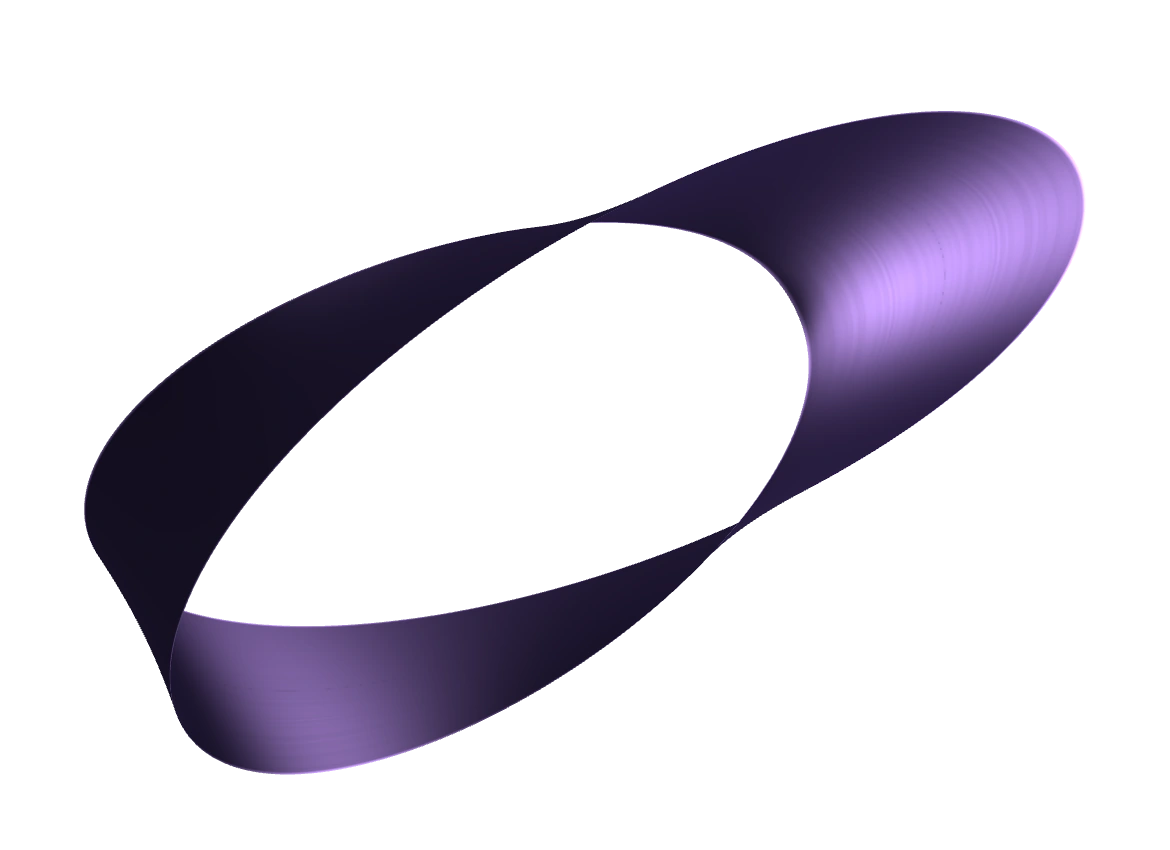
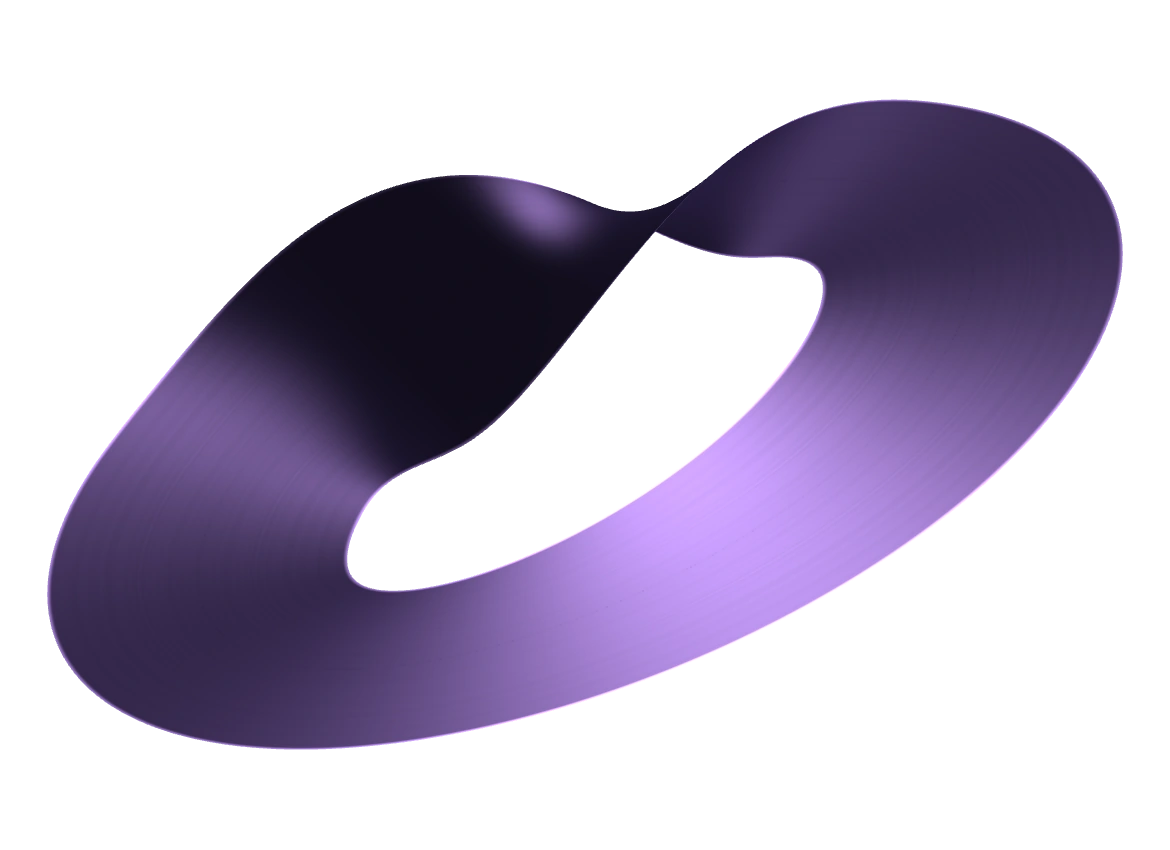
fix: give the Möbius ribbon matching rounded ends

diff --git a/src/mobiusRenderer.ts b/src/mobiusRenderer.ts
@@ -25,8 +25,8 @@ const vertexSource = `
     surfaceNormal = rotate(normal);
     surfaceTangent = rotate(tangent);
     surfaceUv = materialPosition;
-    float scale = 0.92 * clamp(aspect / 1.36, 1.0, 1.15);
-    gl_Position = vec4(p.x * scale / aspect - 0.078, p.y * scale - 0.025, -p.z * 0.5, 1.0);
+    float scale = 0.88 * clamp(aspect / 1.36, 1.0, 1.15);
+    gl_Position = vec4(p.x * scale / aspect, p.y * scale, -p.z * 0.5, 1.0);
   }
 `
 
@@ -113,6 +113,10 @@ function createMesh() {
   const majorRadius = 1.12
   const minorRadius = .82
   const halfWidth = .40
+  const tipLean = .24
+  const twistStart = .094
+  const twistSpan = .312
+  const twistTaper = .18
   const vertices: number[] = []
   const indices: number[] = []
 
@@ -124,8 +128,20 @@ function createMesh() {
     // The last row matches the first row in reverse. Duplicate seam vertices
     // carry the flipped normals required by the non-orientable surface.
     const seamSign = along === segments ? -1 : 1
-    const halfCos = seamSign * Math.cos(angle / 2)
-    const halfSin = seamSign * Math.sin(angle / 2)
+    // Keep opposite tips congruent by putting the half-turn on one long side.
+    // The quintic ramp leaves both curvature and tangent smooth at its ends.
+    const progress = along === segments
+      ? 0
+      : Math.max(0, Math.min(1, (u - twistStart) / twistSpan))
+    const ease = progress ** 3 * (10 + progress * (-15 + 6 * progress))
+    const twist = tipLean * cos + Math.PI * ease
+    const twistDerivative = -tipLean * sin + 15 * (progress * (1 - progress)) ** 2 / twistSpan
+    const twistCos = seamSign * Math.cos(twist)
+    const twistSin = seamSign * Math.sin(twist)
+    const taperPhase = Math.PI * progress
+    const taperSin = Math.sin(taperPhase)
+    const taper = halfWidth * (1 - twistTaper * taperSin ** 4)
+    const taperDerivative = -2 * halfWidth * twistTaper * taperSin ** 3 * Math.cos(taperPhase) / twistSpan
     const length = Math.hypot(minorRadius * cos, majorRadius * sin)
     const lengthDerivative = (majorRadius ** 2 - minorRadius ** 2) * sin * cos / length
     const outwardX = minorRadius * cos / length
@@ -135,13 +151,16 @@ function createMesh() {
 
     for (let column = 0; column <= across; column++) {
       const v = (2 * column - across) / across
-      const offset = v * halfWidth
-      const wx = outwardX * halfCos
-      const wy = outwardY * halfCos
-      const wz = halfSin
-      const tx = -majorRadius * sin + offset * (outwardDerivativeX * halfCos - .5 * outwardX * halfSin)
-      const ty = minorRadius * cos + offset * (outwardDerivativeY * halfCos - .5 * outwardY * halfSin)
-      const tz = .5 * offset * halfCos
+      const offset = v * taper
+      const offsetDerivative = v * taperDerivative
+      const wx = outwardX * twistCos
+      const wy = outwardY * twistCos
+      const wz = twistSin
+      const tx = -majorRadius * sin + offsetDerivative * wx
+        + offset * (outwardDerivativeX * twistCos - twistDerivative * outwardX * twistSin)
+      const ty = minorRadius * cos + offsetDerivative * wy
+        + offset * (outwardDerivativeY * twistCos - twistDerivative * outwardY * twistSin)
+      const tz = offsetDerivative * wz + offset * twistDerivative * twistCos
 
       vertices.push(
         majorRadius * cos + offset * wx,
@@ -227,8 +246,8 @@ export function createMobiusRenderer(gl: WebGLRenderingContext) {
       gl.viewport(0, 0, width, height)
       gl.clear(gl.COLOR_BUFFER_BIT | gl.DEPTH_BUFFER_BIT)
       gl.uniform1f(aspect, width / height)
-      // An orthographic view with no resting yaw keeps the projected long
-      // axis symmetric. Cursor input tilts around that fixed composition.
+      // Orthographic projection keeps both rounded ends the same size.
+      // Cursor input tilts the strip around its center.
       gl.uniform3f(angles, .97 + y * .095, x * .14, .46)
       gl.uniform2f(light, x, -y)
       gl.drawElements(gl.TRIANGLES, mesh.indices.length, gl.UNSIGNED_SHORT, 0)
